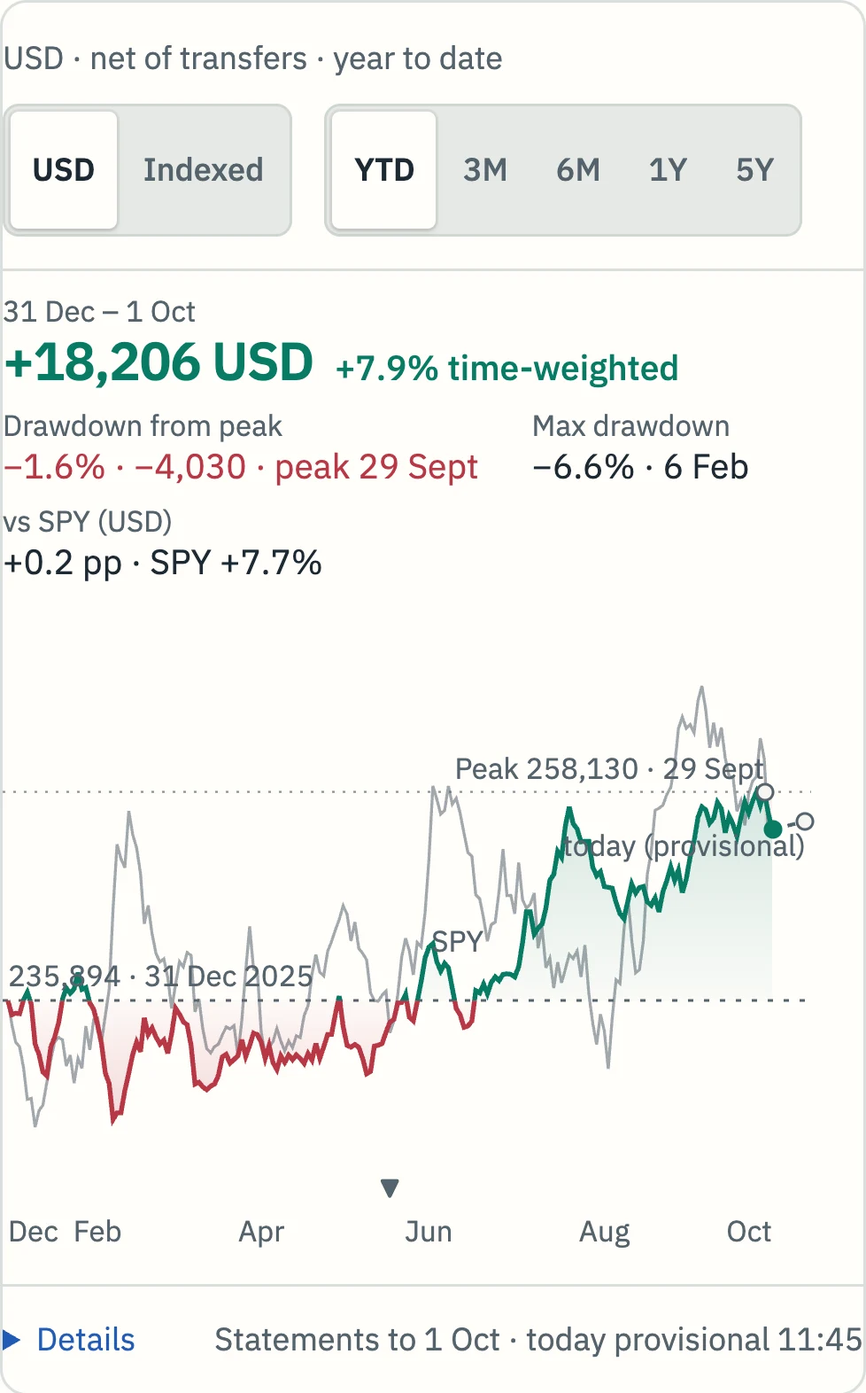
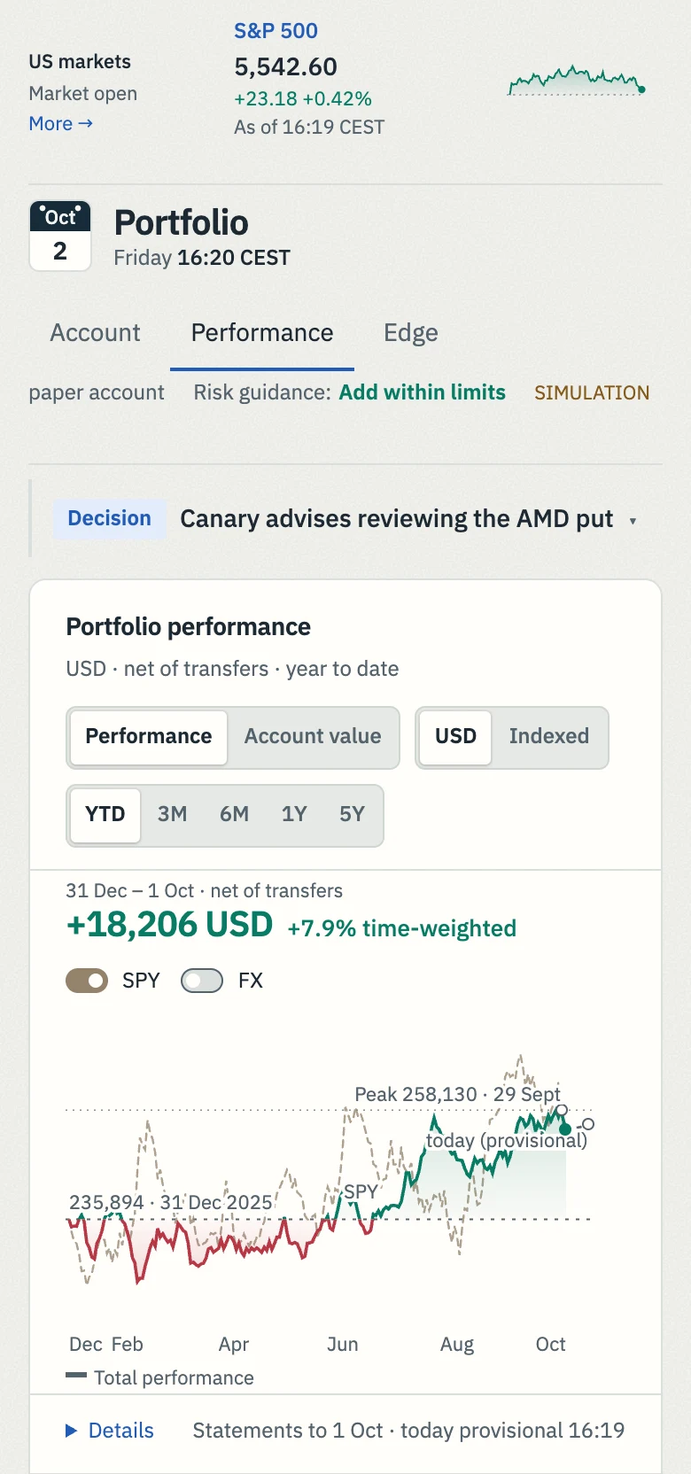
Lead Desk tour with Performance and keep screenshot viewing on page

diff --git a/desk/index.html b/desk/index.html
@@ -15,7 +15,7 @@
   <script src="/assets/theme.js?v=20261008"></script>
   <link rel="stylesheet" href="../assets/site.css?v=20261008">
   <link rel="stylesheet" href="../assets/canary.css?v=20261008">
-  <link rel="stylesheet" href="../assets/desk-showcase.css?v=20261008">
+  <link rel="stylesheet" href="../assets/desk-showcase.css?v=20261008-r2">
   <meta property="og:type" content="website">
   <meta property="og:url" content="https://osauer.dev/desk/">
   <meta property="og:title" content="Canary Desk | Portfolio analysis and risk review">
@@ -45,34 +45,37 @@
         <p class="note">A private project by Oliver Sauer. Access is arranged personally.</p>
       </div>
     </section>
-    <section class="wrap desk-tour story-tour" data-desk-tour data-selected="fx" id="decisions-title" aria-label="Canary Desk screenshot tour">
-      <div class="tour-heading"><span>Three questions before you decide.</span><span>Real interface · synthetic data</span></div>
+    <section class="wrap desk-tour story-tour" data-desk-tour data-selected="performance" id="decisions-title" aria-label="Canary Desk screenshot tour">
+      <div class="tour-heading"><span>Explore Canary Desk</span><span>Real interface · synthetic data</span></div>
       <nav class="tour-choices" aria-label="Screenshot views">
-        <a data-tour-view="fx" href="../assets/desk-fx.webp?v=20261008" data-dark="../assets/desk-fx-dark.webp?v=20261008" data-mobile="../assets/phone-fx.webp?v=20261008" data-mobile-dark="../assets/phone-fx-dark.webp?v=20261008" data-title="What moved my return?" data-caption="See the week’s currency contribution, day by day. Reporting dates and missing days stay in view." data-alt="Canary Desk weekly FX contribution with daily bars, using synthetic data">01 · Understand returns</a>
-        <a data-tour-view="decisions" href="../assets/desk-decisions.webp?v=20261008" data-dark="../assets/desk-decisions-dark.webp?v=20261008" data-mobile="../assets/phone-decisions.webp?v=20261008" data-mobile-dark="../assets/phone-decisions-dark.webp?v=20261008" data-title="What needs my attention?" data-caption="Read each proposal with its reason. The analyst proposes; Canary checks the authority behind every order." data-alt="Canary Desk rule advice and protection proposals, using synthetic data">02 · Review a decision</a>
-        <a data-tour-view="opportunities" href="../assets/desk-opportunities.webp?v=20261008" data-dark="../assets/desk-opportunities-dark.webp?v=20261008" data-mobile="../assets/phone-opportunities.webp?v=20261008" data-mobile-dark="../assets/phone-opportunities-dark.webp?v=20261008" data-title="What deserves a closer look?" data-caption="New · Unusual volume, then a price that holds or rises, on one timeline. An observation to review, not a forecast. Any trade still needs your confirmation." data-alt="Synthetic NVDA chart in Opportunities, with a volume spike at 10:15 and a rising price at 10:20">03 · Observe a turn</a>
+        <a data-tour-view="performance" href="../assets/desk-performance.webp?v=20261008-r2" data-dark="../assets/desk-performance-dark.webp?v=20261008-r2" data-mobile="../assets/phone-performance.webp?v=20261008-r2" data-mobile-dark="../assets/phone-performance-dark.webp?v=20261008-r2" data-title="How is my portfolio doing?" data-caption="Compare your return with the market, change the period and see the drawdown. Deposits and withdrawals stay separate from investment returns." data-alt="Canary Desk Performance view with portfolio navigation, period controls, a positive synthetic return chart and its benchmark">Performance</a>
+        <a data-tour-view="decisions" href="../assets/desk-decisions.webp?v=20261008" data-dark="../assets/desk-decisions-dark.webp?v=20261008" data-mobile="../assets/phone-decisions.webp?v=20261008" data-mobile-dark="../assets/phone-decisions-dark.webp?v=20261008" data-title="What needs my attention?" data-caption="Read each proposal with its reason. The analyst proposes; Canary checks the authority behind every order." data-alt="Canary Desk rule advice and protection proposals, using synthetic data">Decisions</a>
+        <a data-tour-view="opportunities" href="../assets/desk-opportunities.webp?v=20261008" data-dark="../assets/desk-opportunities-dark.webp?v=20261008" data-mobile="../assets/phone-opportunities.webp?v=20261008" data-mobile-dark="../assets/phone-opportunities-dark.webp?v=20261008" data-title="What deserves a closer look?" data-caption="New · Unusual volume, then a price that holds or rises, on one timeline. An observation to review, not a forecast. Any trade still needs your confirmation." data-alt="Synthetic NVDA chart in Opportunities, with a volume spike at 10:15 and a rising price at 10:20">Opportunities</a>
+        <a data-tour-view="cash" href="../assets/desk-cash.webp?v=20261008" data-dark="../assets/desk-cash-dark.webp?v=20261008" data-mobile="../assets/phone-cash.webp?v=20261008" data-mobile-dark="../assets/phone-cash-dark.webp?v=20261008" data-title="What cash can I put to work?" data-caption="See the reserve, commitments and checks behind a same-currency bill plan. Missing settlement evidence holds this synthetic example; the sweep is off by default." data-alt="Canary Desk cash-sweep plan with reserve and settlement holds, using synthetic data">Cash</a>
       </nav>
       <div class="tour-screen" id="desk-tour-screen">
-        <picture><source data-theme-source data-media="(max-width: 760px)" media="(max-width: 760px) and (prefers-color-scheme: dark)" data-tour-mobile-dark srcset="../assets/phone-fx-dark.webp?v=20261008" width="316" height="573"><source data-tour-mobile media="(max-width: 760px)" srcset="../assets/phone-fx.webp?v=20261008" width="316" height="573"><source data-theme-source data-media="all" media="(prefers-color-scheme: dark)" srcset="../assets/desk-fx-dark.webp?v=20261008" data-tour-dark width="918" height="542"><img data-tour-image src="../assets/desk-fx.webp?v=20261008" alt="Canary Desk weekly FX contribution with daily bars, using synthetic data" fetchpriority="high" width="918" height="542"></picture>
+        <a data-tour-open data-responsive-image href="../assets/desk-performance.webp?v=20261008-r2" aria-label="Enlarge the Performance screenshot">
+          <picture><source data-theme-source data-media="(max-width: 760px)" media="(max-width: 760px) and (prefers-color-scheme: dark)" data-tour-mobile-dark width="390" height="832" srcset="../assets/phone-performance-dark.webp?v=20261008-r2"><source data-tour-mobile width="390" height="832" media="(max-width: 760px)" srcset="../assets/phone-performance.webp?v=20261008-r2"><source data-theme-source data-media="all" media="(prefers-color-scheme: dark)" srcset="../assets/desk-performance-dark.webp?v=20261008-r2" data-tour-dark width="1200" height="692"><img data-tour-image src="../assets/desk-performance.webp?v=20261008-r2" alt="Canary Desk Performance view with portfolio navigation, period controls, a positive synthetic return chart and its benchmark" fetchpriority="high" width="1200" height="692"></picture>
+        </a>
       </div>
-
       <div class="tour-caption">
-        <div><h2 data-tour-title>What moved my return?</h2><p data-tour-caption>See the week’s currency contribution, day by day. Reporting dates and missing days stay in view.</p></div>
-        <a data-tour-full class="tour-full" href="../assets/desk-fx.webp?v=20261008" target="_blank" rel="noopener" aria-label="Open full-size FX contribution screenshot">Open full-size <span aria-hidden="true">↗</span></a>
+        <div><h2 data-tour-title>How is my portfolio doing?</h2><p data-tour-caption>Compare your return with the market, change the period and see the drawdown. Deposits and withdrawals stay separate from investment returns.</p></div>
+        <a data-tour-full class="tour-full" href="../assets/desk-performance.webp?v=20261008-r2" aria-label="Enlarge the Performance screenshot">Enlarge image <span aria-hidden="true">＋</span></a>
       </div>
       <p class="tour-status" data-tour-status role="status"></p>
     </section>
-    <section class="wrap section rhythm" aria-label="A day with Canary Desk">
-      <article><span class="number" aria-hidden="true">01</span><h2>Before the open</h2><p>A written brief each morning covers how your book did yesterday and what needs your attention today. When an official economic release comes out, you get a prompt review of what it means for your portfolio.</p></article>
-      <article><span class="number" aria-hidden="true">02</span><h2>Every minute</h2><p>Your risk rules check the book even when you are not watching. A rule that trips drafts the fix, such as a stop, an exit or a budget cut. An unhedged book gets a flag, not a hedge.</p></article>
-      <article><span class="number" aria-hidden="true">03</span><h2>While you’re away</h2><p>Automatic protection is off until you explicitly authorise selected rules in Canary. Those rules can submit orders to reduce positions within your limits, after a notice period in which you can veto the order. That period is half an hour by default. The AI analyst cannot send orders.</p></article>
-      <article><span class="number" aria-hidden="true">04</span><h2>Idle cash</h2><p>A policy-based planner weighs same-currency government bills once commitments and liquidity reserves are covered. Off by default.</p></article>
+    <section class="wrap section rhythm" aria-labelledby="day-title">
+      <header class="rhythm-heading"><p class="kicker">The daily routine</p><h2 id="day-title">A day with Desk.</h2></header>
+      <article><h3>Before the open</h3><p>A written brief each morning covers how your book did yesterday and what needs your attention today. When an official economic release comes out, you get a prompt review of what it means for your portfolio.</p></article>
+      <article><h3>Every minute</h3><p>Your risk rules check the book even when you are not watching. A rule that trips drafts the fix, such as a stop, an exit or a budget cut. An unhedged book gets a flag, not a hedge.</p></article>
+      <article><h3>While you’re away</h3><p>Automatic protection is off until you explicitly authorise selected rules in Canary. Those rules can submit orders to reduce positions within your limits, after a notice period in which you can veto the order. That period is half an hour by default. The AI analyst cannot send orders.</p></article>
+      <article><h3>Idle cash</h3><p>A policy-based planner weighs same-currency government bills once commitments and liquidity reserves are covered. Off by default.</p></article>
     </section>
     <details class="wrap deep-dive">
       <summary><span>Read the brief and check daily activity</span><small>The written daily brief and the Operations view</small></summary>
       <section class="section split" aria-labelledby="daily-proof-title">
         <div><p class="kicker">Daily use</p><h2 id="daily-proof-title">Read the brief.<br>Check what ran.</h2><p>The daily brief puts market context beside the portfolio. Operations shows completed work, upcoming reviews and items needing attention.</p></div>
-        <div><figure class="fx-capture"><a href="../assets/desk-brief.webp?v=20261008" data-responsive-image target="_blank" rel="noopener" aria-label="Open full-size daily brief screenshot"><picture><source data-theme-source data-media="(max-width: 760px)" media="(max-width: 760px) and (prefers-color-scheme: dark)" srcset="../assets/phone-brief-dark.webp?v=20261008" width="326" height="361"><source media="(max-width: 760px)" srcset="../assets/phone-brief.webp?v=20261008" width="326" height="361"><source data-theme-source data-media="all" media="(prefers-color-scheme: dark)" srcset="../assets/desk-brief-dark.webp?v=20261008" width="445" height="315"><img src="../assets/desk-brief.webp?v=20261008" alt="Daily brief in the current Desk interface, using synthetic demonstration data" loading="lazy" width="445" height="315"></picture></a><figcaption>The written brief, with its date and portfolio context. Synthetic data · open to enlarge ↗</figcaption></figure><figure class="fx-capture"><a href="../assets/desk-operations.webp?v=20261008" data-responsive-image target="_blank" rel="noopener" aria-label="Open full-size operations screenshot"><picture><source data-theme-source data-media="(max-width: 760px)" media="(max-width: 760px) and (prefers-color-scheme: dark)" srcset="../assets/phone-operations-dark.webp?v=20261008" width="358" height="1303"><source media="(max-width: 760px)" srcset="../assets/phone-operations.webp?v=20261008" width="358" height="1303"><source data-theme-source data-media="all" media="(prefers-color-scheme: dark)" srcset="../assets/desk-operations-dark.webp?v=20261008" width="1136" height="1113"><img src="../assets/desk-operations.webp?v=20261008" alt="Operations in the current Desk interface, using synthetic demonstration data" loading="lazy" width="1136" height="1113"></picture></a><figcaption>Daily activity and upcoming reviews. Synthetic data · open to enlarge ↗</figcaption></figure></div>
+        <div><figure class="fx-capture"><a href="../assets/desk-brief.webp?v=20261008" data-responsive-image target="_blank" rel="noopener" aria-label="Enlarge daily brief screenshot"><picture><source data-theme-source data-media="(max-width: 760px)" media="(max-width: 760px) and (prefers-color-scheme: dark)" srcset="../assets/phone-brief-dark.webp?v=20261008" width="326" height="361"><source media="(max-width: 760px)" srcset="../assets/phone-brief.webp?v=20261008" width="326" height="361"><source data-theme-source data-media="all" media="(prefers-color-scheme: dark)" srcset="../assets/desk-brief-dark.webp?v=20261008" width="445" height="315"><img src="../assets/desk-brief.webp?v=20261008" alt="Daily brief in the current Desk interface, using synthetic demonstration data" loading="lazy" width="445" height="315"></picture></a><figcaption>The written brief, with its date and portfolio context. Synthetic data · select to enlarge</figcaption></figure><figure class="fx-capture"><a href="../assets/desk-operations.webp?v=20261008" data-responsive-image target="_blank" rel="noopener" aria-label="Enlarge operations screenshot"><picture><source data-theme-source data-media="(max-width: 760px)" media="(max-width: 760px) and (prefers-color-scheme: dark)" srcset="../assets/phone-operations-dark.webp?v=20261008" width="358" height="1303"><source media="(max-width: 760px)" srcset="../assets/phone-operations.webp?v=20261008" width="358" height="1303"><source data-theme-source data-media="all" media="(prefers-color-scheme: dark)" srcset="../assets/desk-operations-dark.webp?v=20261008" width="1136" height="1113"><img src="../assets/desk-operations.webp?v=20261008" alt="Operations in the current Desk interface, using synthetic demonstration data" loading="lazy" width="1136" height="1113"></picture></a><figcaption>Daily activity and upcoming reviews. Synthetic data · select to enlarge</figcaption></figure></div>
       </section>
     </details>
     <section class="wrap section split opportunity-spotlight" id="opportunities" aria-labelledby="opportunities-title">
@@ -92,8 +95,8 @@
         </div>
       </div>
       <figure class="fx-capture">
-        <a href="../assets/desk-opportunity-call.webp?v=20261008" data-responsive-image target="_blank" rel="noopener" aria-label="Open full-size trade ticket for a chosen call"><picture><source data-theme-source data-media="(max-width: 760px)" media="(max-width: 760px) and (prefers-color-scheme: dark)" srcset="../assets/phone-opportunity-call-dark.webp?v=20261008" width="358" height="880"><source media="(max-width: 760px)" srcset="../assets/phone-opportunity-call.webp?v=20261008" width="358" height="880"><source data-theme-source data-media="all" media="(prefers-color-scheme: dark)" srcset="../assets/desk-opportunity-call-dark.webp?v=20261008" width="570" height="819"><img src="../assets/desk-opportunity-call.webp?v=20261008" alt="Desk trade ticket for a synthetic NVDA call, showing a dated, delayed bid and ask, two contracts at a 3.50 limit and the premium at risk before Canary’s preview" loading="lazy" width="570" height="819"></picture></a>
-        <figcaption>The trade ticket after you choose a call. Canary’s preview comes next. Synthetic data · open to enlarge ↗</figcaption>
+        <a href="../assets/desk-opportunity-call.webp?v=20261008" data-responsive-image target="_blank" rel="noopener" aria-label="Enlarge trade ticket for a chosen call"><picture><source data-theme-source data-media="(max-width: 760px)" media="(max-width: 760px) and (prefers-color-scheme: dark)" srcset="../assets/phone-opportunity-call-dark.webp?v=20261008" width="358" height="880"><source media="(max-width: 760px)" srcset="../assets/phone-opportunity-call.webp?v=20261008" width="358" height="880"><source data-theme-source data-media="all" media="(prefers-color-scheme: dark)" srcset="../assets/desk-opportunity-call-dark.webp?v=20261008" width="570" height="819"><img src="../assets/desk-opportunity-call.webp?v=20261008" alt="Desk trade ticket for a synthetic NVDA call, showing a dated, delayed bid and ask, two contracts at a 3.50 limit and the premium at risk before Canary’s preview" loading="lazy" width="570" height="819"></picture></a>
+        <figcaption>The trade ticket after you choose a call. Canary’s preview comes next. Synthetic data · select to enlarge</figcaption>
       </figure>
     </section>
     <div class="wrap detail-intro"><p class="kicker">Look closer</p><h2>The detail behind each view.</h2><p>Open the part you want to understand. Each one sets out its controls and their limits.</p></div>
@@ -107,10 +110,10 @@
       </div>
       <div class="fx-explanation">
         <figure class="fx-capture">
-          <a href="../assets/desk-fx-detail.webp?v=20261008" data-responsive-image target="_blank" rel="noopener" aria-label="Open full-size FX contribution detail">
+          <a href="../assets/desk-fx-detail.webp?v=20261008" data-responsive-image target="_blank" rel="noopener" aria-label="Enlarge FX contribution detail">
             <picture><source data-theme-source data-media="(max-width: 760px)" media="(max-width: 760px) and (prefers-color-scheme: dark)" srcset="../assets/phone-fx-detail-dark.webp?v=20261008" width="316" height="573"><source media="(max-width: 760px)" srcset="../assets/phone-fx-detail.webp?v=20261008" width="316" height="573"><source data-theme-source data-media="all" media="(prefers-color-scheme: dark)" srcset="../assets/desk-fx-detail-dark.webp?v=20261008" width="918" height="542"><img src="../assets/desk-fx-detail.webp?v=20261008" alt="Desk FX contribution detail with the weekly currency effect and daily bars, using synthetic data" loading="lazy" width="918" height="542"></picture>
           </a>
-          <figcaption>The period total and its daily contributions. Synthetic data · open to enlarge ↗</figcaption>
+          <figcaption>The period total and its daily contributions. Synthetic data · select to enlarge</figcaption>
         </figure>
         <div class="fx-bridge" aria-label="FX contribution plus other profit and loss equals portfolio value change after external cash flows">
           <span><b>FX contribution</b>Currency effect</span><span class="operator" aria-hidden="true">+</span><span><b>Other P&amp;L</b>Prices, income and fees</span><span class="operator" aria-hidden="true">=</span><span><b>Portfolio change</b>After external cash flows</span>
@@ -119,10 +122,10 @@
         <a class="text-link" href="../canary/docs/start/reporting.html#fx-contribution">How FX is measured<span class="arrow" aria-hidden="true">→</span></a>
         <p class="account-value-note">Account value marks deposits and withdrawals on the balance, so moving money never reads as making money.</p>
         <figure class="fx-capture">
-          <a href="../assets/desk-account-value.webp?v=20261008" data-responsive-image target="_blank" rel="noopener" aria-label="Open full-size Account value screenshot">
+          <a href="../assets/desk-account-value.webp?v=20261008" data-responsive-image target="_blank" rel="noopener" aria-label="Enlarge Account value screenshot">
             <picture><source data-theme-source data-media="(max-width: 760px)" media="(max-width: 760px) and (prefers-color-scheme: dark)" srcset="../assets/phone-account-value-dark.webp?v=20261008" width="358" height="543"><source media="(max-width: 760px)" srcset="../assets/phone-account-value.webp?v=20261008" width="358" height="543"><source data-theme-source data-media="all" media="(prefers-color-scheme: dark)" srcset="../assets/desk-account-value-dark.webp?v=20261008" width="960" height="471"><img src="../assets/desk-account-value.webp?v=20261008" alt="Desk Account value for the year to date, including transfers, with a withdrawal marked on the line, using synthetic data" loading="lazy" width="960" height="471"></picture>
           </a>
-          <figcaption>The balance year to date, with a withdrawal marked. Synthetic data · open to enlarge ↗</figcaption>
+          <figcaption>The balance year to date, with a withdrawal marked. Synthetic data · select to enlarge</figcaption>
         </figure>
       </div>
     </section>
@@ -146,8 +149,8 @@
           <a class="text-link" href="../canary/docs/understand/edge.html#stock-lending-income">How lending is reported<span class="arrow" aria-hidden="true">→</span></a>
         </div>
         <figure class="feature-capture">
-          <a href="../assets/desk-research-borrow.webp?v=20261008" target="_blank" rel="noopener" aria-label="Open full-size borrowing-cost comparison" data-responsive-image><picture><source data-theme-source data-media="all" media="(prefers-color-scheme: dark)" srcset="../assets/desk-research-borrow-dark.webp?v=20261008" width="1134" height="590"><img src="../assets/desk-research-borrow.webp?v=20261008" alt="Desk borrowing-cost comparison for synthetic holdings and watchlist names, each rate dated and none persistently high" loading="lazy" width="1134" height="590"></picture></a>
-          <figcaption><span>Dated borrowing costs for your holdings and watchlist. Here, none is persistently high.</span><span>Synthetic data · open to enlarge ↗</span></figcaption>
+          <a href="../assets/desk-research-borrow.webp?v=20261008" target="_blank" rel="noopener" aria-label="Enlarge borrowing-cost comparison" data-responsive-image><picture><source data-theme-source data-media="all" media="(prefers-color-scheme: dark)" srcset="../assets/desk-research-borrow-dark.webp?v=20261008" width="1134" height="590"><img src="../assets/desk-research-borrow.webp?v=20261008" alt="Desk borrowing-cost comparison for synthetic holdings and watchlist names, each rate dated and none persistently high" loading="lazy" width="1134" height="590"></picture></a>
+          <figcaption><span>Dated borrowing costs for your holdings and watchlist. Here, none is persistently high.</span><span>Synthetic data · select to enlarge</span></figcaption>
         </figure>
       </section>
     </details>
@@ -157,7 +160,7 @@
         <div><p class="kicker">Risk evidence</p><h2 id="risk-proof-title">The limit behind<br>the warning.</h2>
           <p>See the exposure beside the rule it trips. The source and any missing data stay visible, so you can check what a warning rests on.</p>
           <p class="note">Your own limits govern the checks. The screenshot is a synthetic example, not a recommendation.</p></div>
-        <figure class="fx-capture"><a href="../assets/desk-risk.webp?v=20261008" data-responsive-image target="_blank" rel="noopener" aria-label="Open full-size risk assessment"><picture><source data-theme-source data-media="(max-width: 760px)" media="(max-width: 760px) and (prefers-color-scheme: dark)" srcset="../assets/phone-risk-dark.webp?v=20261008" width="358" height="1170"><source media="(max-width: 760px)" srcset="../assets/phone-risk.webp?v=20261008" width="358" height="1170"><source data-theme-source data-media="all" media="(prefers-color-scheme: dark)" srcset="../assets/desk-risk-dark.webp?v=20261008" width="1136" height="547"><img src="../assets/desk-risk.webp?v=20261008" alt="Synthetic risk assessment showing breached concentration and expiry limits, each with its evidence" loading="lazy" width="1136" height="547"></picture></a><figcaption>Exposure, its cause and the applicable limits. Synthetic data · open to enlarge ↗</figcaption></figure>
+        <figure class="fx-capture"><a href="../assets/desk-risk.webp?v=20261008" data-responsive-image target="_blank" rel="noopener" aria-label="Enlarge risk assessment"><picture><source data-theme-source data-media="(max-width: 760px)" media="(max-width: 760px) and (prefers-color-scheme: dark)" srcset="../assets/phone-risk-dark.webp?v=20261008" width="358" height="1170"><source media="(max-width: 760px)" srcset="../assets/phone-risk.webp?v=20261008" width="358" height="1170"><source data-theme-source data-media="all" media="(prefers-color-scheme: dark)" srcset="../assets/desk-risk-dark.webp?v=20261008" width="1136" height="547"><img src="../assets/desk-risk.webp?v=20261008" alt="Synthetic risk assessment showing breached concentration and expiry limits, each with its evidence" loading="lazy" width="1136" height="547"></picture></a><figcaption>Exposure, its cause and the applicable limits. Synthetic data · select to enlarge</figcaption></figure>
       </section>
     </details>
     <details class="wrap deep-dive ">
@@ -180,8 +183,8 @@
         <p class="cash-story-note">Each proposal keeps its reason and decision history, and missing evidence holds the sweep.</p>
       </div>
       <figure class="feature-capture">
-        <a href="../assets/desk-cash.webp?v=20261008" target="_blank" rel="noopener" aria-label="Open full-size cash sweep plan" data-responsive-image><picture><source data-theme-source data-media="(max-width: 760px)" media="(max-width: 760px) and (prefers-color-scheme: dark)" srcset="../assets/phone-cash-dark.webp?v=20261008" width="324" height="173"><source media="(max-width: 760px)" srcset="../assets/phone-cash.webp?v=20261008" width="324" height="173"><source data-theme-source data-media="all" media="(prefers-color-scheme: dark)" srcset="../assets/desk-cash-dark.webp?v=20261008" width="1136" height="598"><img src="../assets/desk-cash.webp?v=20261008" alt="Synthetic cash-sweep plan with its reserve and settlement holds visible" loading="lazy" width="1136" height="598"></picture></a>
-        <figcaption><span>The cash plan with its holds in view. On a phone, the reason it is held.</span><span>Simulation · synthetic data · open to enlarge ↗</span></figcaption>
+        <a href="../assets/desk-cash.webp?v=20261008" target="_blank" rel="noopener" aria-label="Enlarge cash sweep plan" data-responsive-image><picture><source data-theme-source data-media="(max-width: 760px)" media="(max-width: 760px) and (prefers-color-scheme: dark)" srcset="../assets/phone-cash-dark.webp?v=20261008" width="324" height="173"><source media="(max-width: 760px)" srcset="../assets/phone-cash.webp?v=20261008" width="324" height="173"><source data-theme-source data-media="all" media="(prefers-color-scheme: dark)" srcset="../assets/desk-cash-dark.webp?v=20261008" width="1136" height="598"><img src="../assets/desk-cash.webp?v=20261008" alt="Synthetic cash-sweep plan with its reserve and settlement holds visible" loading="lazy" width="1136" height="598"></picture></a>
+        <figcaption><span>The cash plan with its holds in view. On a phone, the reason it is held.</span><span>Simulation · synthetic data · select to enlarge</span></figcaption>
       </figure>
     </section>
     </details>
@@ -195,17 +198,17 @@
       <div class="market-pocket-stage">
         <div class="market-studies">
           <figure>
-            <a href="../assets/desk-market-price.webp?v=20261008" data-responsive-image target="_blank" rel="noopener" aria-label="Open full-size market price chart"><picture><source data-theme-source data-media="(max-width: 760px)" media="(max-width: 760px) and (prefers-color-scheme: dark)" srcset="../assets/phone-market-price-dark.webp?v=20261008" width="358" height="417"><source media="(max-width: 760px)" srcset="../assets/phone-market-price.webp?v=20261008" width="358" height="417"><source data-theme-source data-media="all" media="(prefers-color-scheme: dark)" srcset="../assets/desk-market-price-dark.webp?v=20261008" width="1136" height="319"><img src="../assets/desk-market-price.webp?v=20261008" alt="Market leaders compared with SPY and QQQ in Desk, using synthetic data" loading="lazy" width="1136" height="319"></picture></a>
-            <figcaption><span>Who is carrying the market?</span><span>Synthetic data · open to enlarge ↗</span></figcaption>
+            <a href="../assets/desk-market-price.webp?v=20261008" data-responsive-image target="_blank" rel="noopener" aria-label="Enlarge market price chart"><picture><source data-theme-source data-media="(max-width: 760px)" media="(max-width: 760px) and (prefers-color-scheme: dark)" srcset="../assets/phone-market-price-dark.webp?v=20261008" width="358" height="417"><source media="(max-width: 760px)" srcset="../assets/phone-market-price.webp?v=20261008" width="358" height="417"><source data-theme-source data-media="all" media="(prefers-color-scheme: dark)" srcset="../assets/desk-market-price-dark.webp?v=20261008" width="1136" height="319"><img src="../assets/desk-market-price.webp?v=20261008" alt="Market leaders compared with SPY and QQQ in Desk, using synthetic data" loading="lazy" width="1136" height="319"></picture></a>
+            <figcaption><span>Who is carrying the market?</span><span>Synthetic data · select to enlarge</span></figcaption>
           </figure>
           <figure>
-            <a href="../assets/desk-market-breadth.webp?v=20261008" data-responsive-image target="_blank" rel="noopener" aria-label="Open full-size market participation chart"><picture><source data-theme-source data-media="(max-width: 760px)" media="(max-width: 760px) and (prefers-color-scheme: dark)" srcset="../assets/phone-market-breadth-dark.webp?v=20261008" width="358" height="491"><source media="(max-width: 760px)" srcset="../assets/phone-market-breadth.webp?v=20261008" width="358" height="491"><source data-theme-source data-media="all" media="(prefers-color-scheme: dark)" srcset="../assets/desk-market-breadth-dark.webp?v=20261008" width="1136" height="376"><img src="../assets/desk-market-breadth.webp?v=20261008" alt="Market participation chart comparing leaders and the S&amp;P 500, with a marked history gap, using synthetic data" loading="lazy" width="1136" height="376"></picture></a>
-            <figcaption><span>How widely is strength shared?</span><span>Synthetic data · open to enlarge ↗</span></figcaption>
+            <a href="../assets/desk-market-breadth.webp?v=20261008" data-responsive-image target="_blank" rel="noopener" aria-label="Enlarge market participation chart"><picture><source data-theme-source data-media="(max-width: 760px)" media="(max-width: 760px) and (prefers-color-scheme: dark)" srcset="../assets/phone-market-breadth-dark.webp?v=20261008" width="358" height="491"><source media="(max-width: 760px)" srcset="../assets/phone-market-breadth.webp?v=20261008" width="358" height="491"><source data-theme-source data-media="all" media="(prefers-color-scheme: dark)" srcset="../assets/desk-market-breadth-dark.webp?v=20261008" width="1136" height="376"><img src="../assets/desk-market-breadth.webp?v=20261008" alt="Market participation chart comparing leaders and the S&amp;P 500, with a marked history gap, using synthetic data" loading="lazy" width="1136" height="376"></picture></a>
+            <figcaption><span>How widely is strength shared?</span><span>Synthetic data · select to enlarge</span></figcaption>
           </figure>
         </div>
         <figure class="pocket-shot">
-          <a href="../assets/phone-overview.webp?v=20261008" target="_blank" rel="noopener" aria-label="Open full-size Desk phone view" data-responsive-image><picture><source data-theme-source data-media="all" media="(prefers-color-scheme: dark)" srcset="../assets/phone-overview-dark.webp?v=20261008" width="390" height="1080"><img src="../assets/phone-overview.webp?v=20261008" alt="Canary Desk in a phone browser, using synthetic data" loading="lazy" width="390" height="1080"></picture></a>
-          <figcaption>Desk in your phone browser.<br>Synthetic data · open to enlarge ↗</figcaption>
+          <a href="../assets/phone-overview.webp?v=20261008" target="_blank" rel="noopener" aria-label="Enlarge Desk phone view" data-responsive-image><picture><source data-theme-source data-media="all" media="(prefers-color-scheme: dark)" srcset="../assets/phone-overview-dark.webp?v=20261008" width="390" height="1080"><img src="../assets/phone-overview.webp?v=20261008" alt="Canary Desk in a phone browser, using synthetic data" loading="lazy" width="390" height="1080"></picture></a>
+          <figcaption>Desk in your phone browser.<br>Synthetic data · select to enlarge</figcaption>
         </figure>
       </div>
     </section>
@@ -263,6 +266,6 @@
     <div class="footer-bottom"><p>Personal projects, unaffiliated with any employer. No investment advice.</p><span>osauer.dev</span></div>
   </footer>
   <script type="module" src="../assets/canary.js?v=20261002-ticker"></script>
-  <script type="module" src="../assets/desk-showcase.js?v=20261008"></script>
+  <script type="module" src="../assets/desk-showcase.js?v=20261008-r2"></script>
 </body>
 </html>

diff --git a/assets/desk-showcase.js b/assets/desk-showcase.js
@@ -72,8 +72,9 @@ if (tour) {
       title.textContent = link.dataset.title;
       caption.textContent = link.dataset.caption;
       selected = link;
+      tour.querySelector("[data-tour-open]").setAttribute("aria-label", "Enlarge " + link.textContent.trim() + " screenshot");
       syncFull();
-      full.setAttribute("aria-label", "Open full-size " + link.textContent.trim() + " screenshot");
+      full.setAttribute("aria-label", "Enlarge " + link.textContent.trim() + " screenshot");
       tour.dataset.selected = link.dataset.tourView;
       panel.setAttribute("aria-labelledby", link.id);
       links.forEach(item => {
@@ -102,3 +103,87 @@ for (const link of document.querySelectorAll("a[data-responsive-image]")) {
   matchMedia("(max-width: 760px)").addEventListener("change", () => requestAnimationFrame(sync));
   sync();
 }
+
+// Plain activation keeps screenshots inside the page. Native dialog provides
+// modal focus containment and Escape; modified clicks retain the image URL.
+const viewer = document.createElement("dialog");
+viewer.className = "image-viewer";
+viewer.setAttribute("aria-labelledby", "viewer-title");
+viewer.setAttribute("aria-describedby", "viewer-caption");
+viewer.innerHTML = `<header class="viewer-toolbar"><h2 id="viewer-title">Canary Desk screenshot</h2><div class="viewer-actions"><button type="button" data-viewer-zoom disabled>Zoom in</button><button type="button" data-viewer-close autofocus>Close <span aria-hidden="true">×</span></button></div></header><div class="viewer-canvas"><img hidden alt=""><div class="viewer-message"><p role="status"></p><button type="button" data-viewer-retry hidden>Try again</button></div></div><p class="viewer-caption" id="viewer-caption"></p>`;
+document.body.append(viewer);
+const viewerImage = viewer.querySelector("img");
+const viewerCaption = viewer.querySelector(".viewer-caption");
+const viewerStatus = viewer.querySelector("[role=status]");
+const viewerMessage = viewer.querySelector(".viewer-message");
+const viewerZoom = viewer.querySelector("[data-viewer-zoom]");
+const viewerRetry = viewer.querySelector("[data-viewer-retry]");
+let imageURL, loadVersion = 0, previousOverflow;
+
+async function loadScreenshot() {
+  const version = ++loadVersion;
+  viewer.classList.remove("is-zoomed");
+  viewerZoom.textContent = "Zoom in";
+  viewerZoom.setAttribute("aria-pressed", "false");
+  viewerZoom.disabled = true;
+  viewerImage.hidden = true;
+  viewerMessage.hidden = false;
+  viewerRetry.hidden = true;
+  viewerStatus.textContent = "Loading screenshot…";
+  const next = new Image();
+  next.src = imageURL;
+  try {
+    await next.decode();
+    if (version !== loadVersion || !viewer.open) return;
+    viewerImage.src = imageURL;
+    viewerImage.style.setProperty("--viewer-width", `${next.naturalWidth / 2}px`);
+    viewerImage.style.setProperty("--viewer-pixels", `${next.naturalWidth}px`);
+    viewerImage.hidden = false;
+    viewerMessage.hidden = true;
+    viewerStatus.textContent = "";
+    viewerZoom.disabled = false;
+  } catch {
+    if (version !== loadVersion || !viewer.open) return;
+    viewerStatus.textContent = "This screenshot didn’t load. Try again, or close this view to return to the page.";
+    viewerRetry.hidden = false;
+  }
+}
+
+function closeScreenshot() {
+  ++loadVersion;
+  document.documentElement.style.overflow = previousOverflow;
+  viewer.close();
+}
+viewer.querySelector("[data-viewer-close]").addEventListener("click", closeScreenshot);
+viewer.addEventListener("cancel", event => {
+  event.preventDefault();
+  closeScreenshot();
+});
+viewerRetry.addEventListener("click", loadScreenshot);
+viewerZoom.addEventListener("click", () => {
+  const zoomed = viewer.classList.toggle("is-zoomed");
+  viewerZoom.textContent = zoomed ? "Fit image" : "Zoom in";
+  viewerZoom.setAttribute("aria-pressed", String(zoomed));
+  viewer.querySelector(".viewer-canvas").scrollTo(0, 0);
+});
+viewer.addEventListener("click", event => {
+  if (event.target !== viewer) return;
+  const bounds = viewer.getBoundingClientRect();
+  if (event.clientX < bounds.left || event.clientX > bounds.right || event.clientY < bounds.top || event.clientY > bounds.bottom) closeScreenshot();
+});
+
+document.addEventListener("click", event => {
+  if (event.button !== 0 || event.metaKey || event.ctrlKey || event.shiftKey || event.altKey) return;
+  const link = event.target.closest("a[data-responsive-image], a[data-tour-full]");
+  if (!link || typeof viewer.showModal !== "function") return;
+  event.preventDefault();
+  const image = link.querySelector("img") || tour?.querySelector("[data-tour-image]");
+  imageURL = image?.currentSrc || link.href;
+  viewerImage.alt = image?.alt || "Canary Desk screenshot";
+  viewerCaption.textContent = viewerImage.alt;
+  previousOverflow = document.documentElement.style.overflow;
+  document.documentElement.style.overflow = "hidden";
+  viewer.showModal();
+  viewer.querySelector("[data-viewer-close]").focus({preventScroll: true});
+  loadScreenshot();
+});

diff --git a/assets/desk-showcase.css b/assets/desk-showcase.css
@@ -54,8 +54,6 @@
  .tour-heading span:last-child{max-width:15ch;text-align:right}
  .tour-screen picture{padding:8px}
  .tour-screen img{height:640px;aspect-ratio:auto;object-fit:contain}
- .desk-tour[data-selected=cash] .tour-screen picture{width:max-content;min-width:100%}
- .desk-tour[data-selected=cash] .tour-screen img{width:960px;max-width:none;height:640px}
  .tour-caption{grid-template-columns:1fr;margin:20px 0;gap:12px}
  .tour-caption h2{font-size:27px}
  .tour-full{justify-self:start}
@@ -97,14 +95,12 @@
  .story-tour .tour-heading>span:first-child{max-width:20ch}
  .story-tour .tour-choices a{font-size:12px;line-height:1.35;padding:10px 7px;min-height:54px}
  .story-tour .tour-screen img{height:330px}
- .story-tour[data-selected=cash] .tour-screen img{height:330px;width:660px}
  .story-tour .tour-caption{gap:14px}
  .story-tour .tour-caption h2{font-size:34px;margin-bottom:12px}
  .story-tour .tour-caption p{font-size:16px}
 }
 
 .tour-scroll-hint{display:none}
-@media(max-width:760px){.story-tour[data-selected=cash] .tour-scroll-hint{display:block;font-size:12px;color:#C9BEB3;margin-top:-10px}}
 
 /* October captures: native task views, not a scaled-down whole desktop. */
 .story-tour{grid-template-columns:1fr;gap:22px;padding:28px}
@@ -134,3 +130,32 @@
 }
 .opportunity-spotlight .cash-story{margin-top:30px}
 @media(min-width:761px){.opportunity-spotlight{grid-template-columns:1.25fr 1fr}.opportunity-spotlight .fx-capture{margin:0}}
+
+/* Product views and the daily routine are separate reading structures. */
+.story-tour .tour-choices{grid-template-columns:repeat(4,minmax(0,1fr))}
+.tour-screen a{display:block;text-decoration:none;cursor:zoom-in}
+.tour-screen a:focus-visible{outline:2px solid var(--moss);outline-offset:-4px}
+.rhythm article h3{font:500 25px/1.25 var(--sans);letter-spacing:-.03em;margin-bottom:12px}
+.rhythm-heading{grid-column:1/-1;margin-bottom:4px}
+.rhythm-heading h2{font:42px/1.1 var(--serif);margin-top:12px}
+@media(max-width:760px){.story-tour .tour-choices{grid-template-columns:repeat(2,minmax(0,1fr))}.rhythm article{display:block}.rhythm article h3{font-size:23px;margin-bottom:10px}.rhythm-heading h2{font-size:34px}}
+
+/* A closeable, scrollable image view retains the visitor's page context. */
+.image-viewer{padding:0;border:1px solid var(--line);border-radius:6px;background:var(--paper);color:var(--ink);width:calc(100vw - 48px);max-width:1600px;height:calc(100dvh - 48px);max-height:calc(100dvh - 48px);overflow:hidden}
+.image-viewer[open]{display:flex;flex-direction:column}
+.image-viewer::backdrop{background:#000b}
+.viewer-toolbar{display:flex;gap:12px;align-items:center;justify-content:space-between;padding:12px 18px;border-bottom:1px solid var(--line);flex:none}
+.viewer-toolbar h2{font:20px/1.2 var(--serif);margin:0}
+.viewer-actions{display:flex;gap:8px}
+.image-viewer button{font:14px/1.2 var(--sans);color:var(--ink);background:var(--paper);border:1px solid var(--line);border-radius:3px;min-height:44px;padding:10px 14px;cursor:pointer}
+.image-viewer button:hover{border-color:var(--moss);color:var(--moss-deep)}
+.image-viewer button:focus-visible{outline:2px solid var(--moss);outline-offset:3px}
+.image-viewer button:disabled{color:var(--muted);cursor:default}
+.viewer-canvas{flex:1;min-height:0;overflow:auto;display:grid;grid-template-rows:minmax(0,1fr);grid-template-columns:minmax(0,1fr);place-items:safe center;padding:18px;background:var(--capture-paper)}
+.viewer-canvas img{display:block;width:var(--viewer-width);height:auto;max-width:100%;max-height:100%;object-fit:contain;margin:auto}
+.viewer-canvas img[hidden]{display:none}
+.image-viewer.is-zoomed .viewer-canvas{display:block}
+.image-viewer.is-zoomed .viewer-canvas img{width:var(--viewer-pixels);max-width:none;max-height:none}
+.viewer-caption{flex:none;margin:0;padding:10px 18px;font-size:13px;line-height:1.4;color:var(--muted);border-top:1px solid var(--line)}
+.viewer-message{text-align:center;padding:24px;font-size:16px}
+@media(max-width:760px){.image-viewer{width:calc(100vw - 16px);height:calc(100dvh - 16px);max-height:calc(100dvh - 16px)}.viewer-toolbar{padding:8px;gap:6px}.viewer-toolbar h2{font-size:18px}.image-viewer button{padding:10px}.viewer-canvas{padding:8px}.viewer-caption{padding:8px 12px;max-height:22dvh;overflow:auto}}

diff --git a/README.md b/README.md
@@ -45,12 +45,16 @@ Code uses the system monospace, so no third family is loaded.
 
 ## Screens
 
-The three-slide tour tells a focused story: currency contribution, a decision,
-and an Opportunities observation. A pattern match is not evidence of an edge
+The four-view tour opens with Performance, then offers Decisions, Opportunities
+and Cash. The separate, unnumbered daily-routine section describes when Desk
+works. A pattern match is not evidence of an edge
 and never grants order authority. The daily-use disclosure adds the morning
 brief and Operations.
 Risk, cash and market detail remain in the disclosures below. Mobile images
-show native phone layouts; full-size links follow the image actually displayed.
+show native phone layouts. Screenshot clicks open an in-page dialog with Close,
+Escape and zoom; closing restores focus and retains the page position. Modified
+clicks and JavaScript-free links still open the underlying image. The viewer
+always uses the image actually displayed.
 The cash phone image focuses on the planner's hold, while desktop shows the plan.
 
 The 8 October 2026 refresh uses Desk local main
@@ -65,6 +69,11 @@ The Decisions fixture includes complete order terms; real simulation controls
 and authority holds stay visible. The capture receipt records the exact source
 revision and errors, and `tools/desk-capture-receipt.json` preserves the accepted
 refresh metadata.
+
+The Performance lead has a separate four-image refresh receipt in
+`tools/desk-performance-capture-receipt.json`, from the same renderer and existing
+positive synthetic fixture. It includes the Portfolio and chart controls in both
+themes and at desktop and phone widths.
 
 A visible product redesign or feature addition requires fresh paired captures,
 updated captions, social image and a new dated sheet before the public page is
@@ -128,8 +137,11 @@ SITE_URL=http://127.0.0.1:8913 PLAYWRIGHT_MODULE=/path/to/node_modules/playwrigh
 ```
 
 This checks desktop, laptop and phone widths, both explicit themes against the
-opposite OS setting, full-size targets, native keyboard controls, image failure
-and retry, System updates and saved choices across pages and tabs. Inspect the
+opposite OS setting, all screenshot openers, native keyboard controls, image
+failure and retry, System updates and saved choices across pages and tabs. The
+viewer checks cover Close, Escape, backdrop clicks, focus and scroll restoration,
+zoom with the toolbar in view, and keeping the page URL and browser tab intact.
+Inspect the
 screenshots in `output/review`; assertions alone are not visual review.
 
 ## Icons and marks
